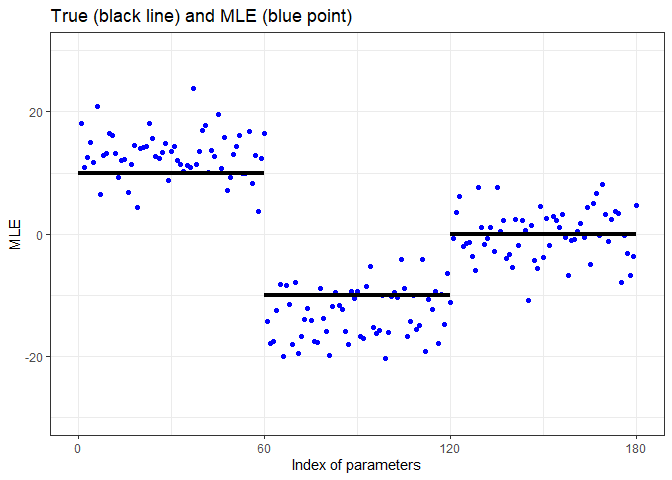
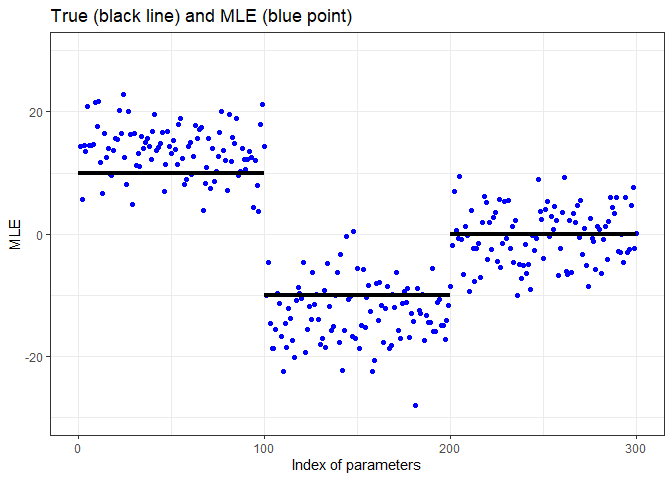
refine example data

diff --git a/README.md b/README.md
@@ -25,8 +25,8 @@ In such a case, the MLE returned by `glm()` contains a non-negligible
 bias.
 
 ``` r
-p <- 180
-n <- 1200
+p <- 300
+n <- 2000
 
 set.seed(314)
 x <- rnorm(n * p, mean = 0, sd = sqrt(1/n))
@@ -42,9 +42,9 @@ theme_set(theme_bw())
 df <- data.frame(index = seq_len(p), mle = coef(fit)[-1])
 ggplot(df, aes(index, mle)) +
   geom_point(color = "blue") +
-  annotate("segment", x = c(0, 60, 120), xend = c(60, 120, 180), 
+  annotate("segment", x = c(0, 100, 200), xend = c(100, 200, 300), 
            y = c(10, -10, 0), yend = c(10, -10, 0), linewidth = 1.5) +
-  scale_x_continuous(breaks = c(0, 60, 120, 180)) +
+  scale_x_continuous(breaks = c(0, 100, 200, 300)) +
   ylim(-30, 30) + xlab("Index of parameters") + ylab("MLE") +
   ggtitle("True (black line) and MLE (blue point)")
 ```
@@ -71,9 +71,9 @@ fit_adj <- adjustMLE(fit)
 df <- data.frame(index = seq_len(p), mle = coef(fit_adj)[-1])
 ggplot(df, aes(index, mle)) +
   geom_point(color = "blue") +
-  annotate("segment", x = c(0, 60, 120), xend = c(60, 120, 180), 
+  annotate("segment", x = c(0, 100, 200), xend = c(100, 200, 300), 
            y = c(10, -10, 0), yend = c(10, -10, 0), linewidth = 1.5) +
-  scale_x_continuous(breaks = c(0, 60, 120, 180)) +
+  scale_x_continuous(breaks = c(0, 100, 200, 300)) +
   ylim(-30, 30) + xlab("Index of parameters") + ylab("Adjusted MLE") +
   ggtitle("True (black line) and adjusted MLE (blue point)")
 ```
@@ -85,16 +85,16 @@ ggplot(df, aes(index, mle)) +
 ``` r
 fit_adj$parameters
 #> $alpha
-#> [1] 1.239376
+#> [1] 1.219645
 #> 
 #> $sigma_squared
-#> [1] 12.10232
+#> [1] 10.96403
 #> 
 #> $lambda
-#> [1] 1.879559
+#> [1] 1.851831
 #> 
 #> $factor_for_chi_squared
-#> [1] 0.9658375
+#> [1] 0.8880964
 #> 
 #> $kappa
 #> [1] 0.15
@@ -103,10 +103,10 @@ fit_adj$parameters
 #> [1] NA
 #> 
 #> $gamma_hat
-#> [1] 3.338216
+#> [1] 3.589527
 #> 
 #> $eta_hat
-#> [1] 18.93264
+#> [1] 20.81103
 ```
 
 ## Installation
